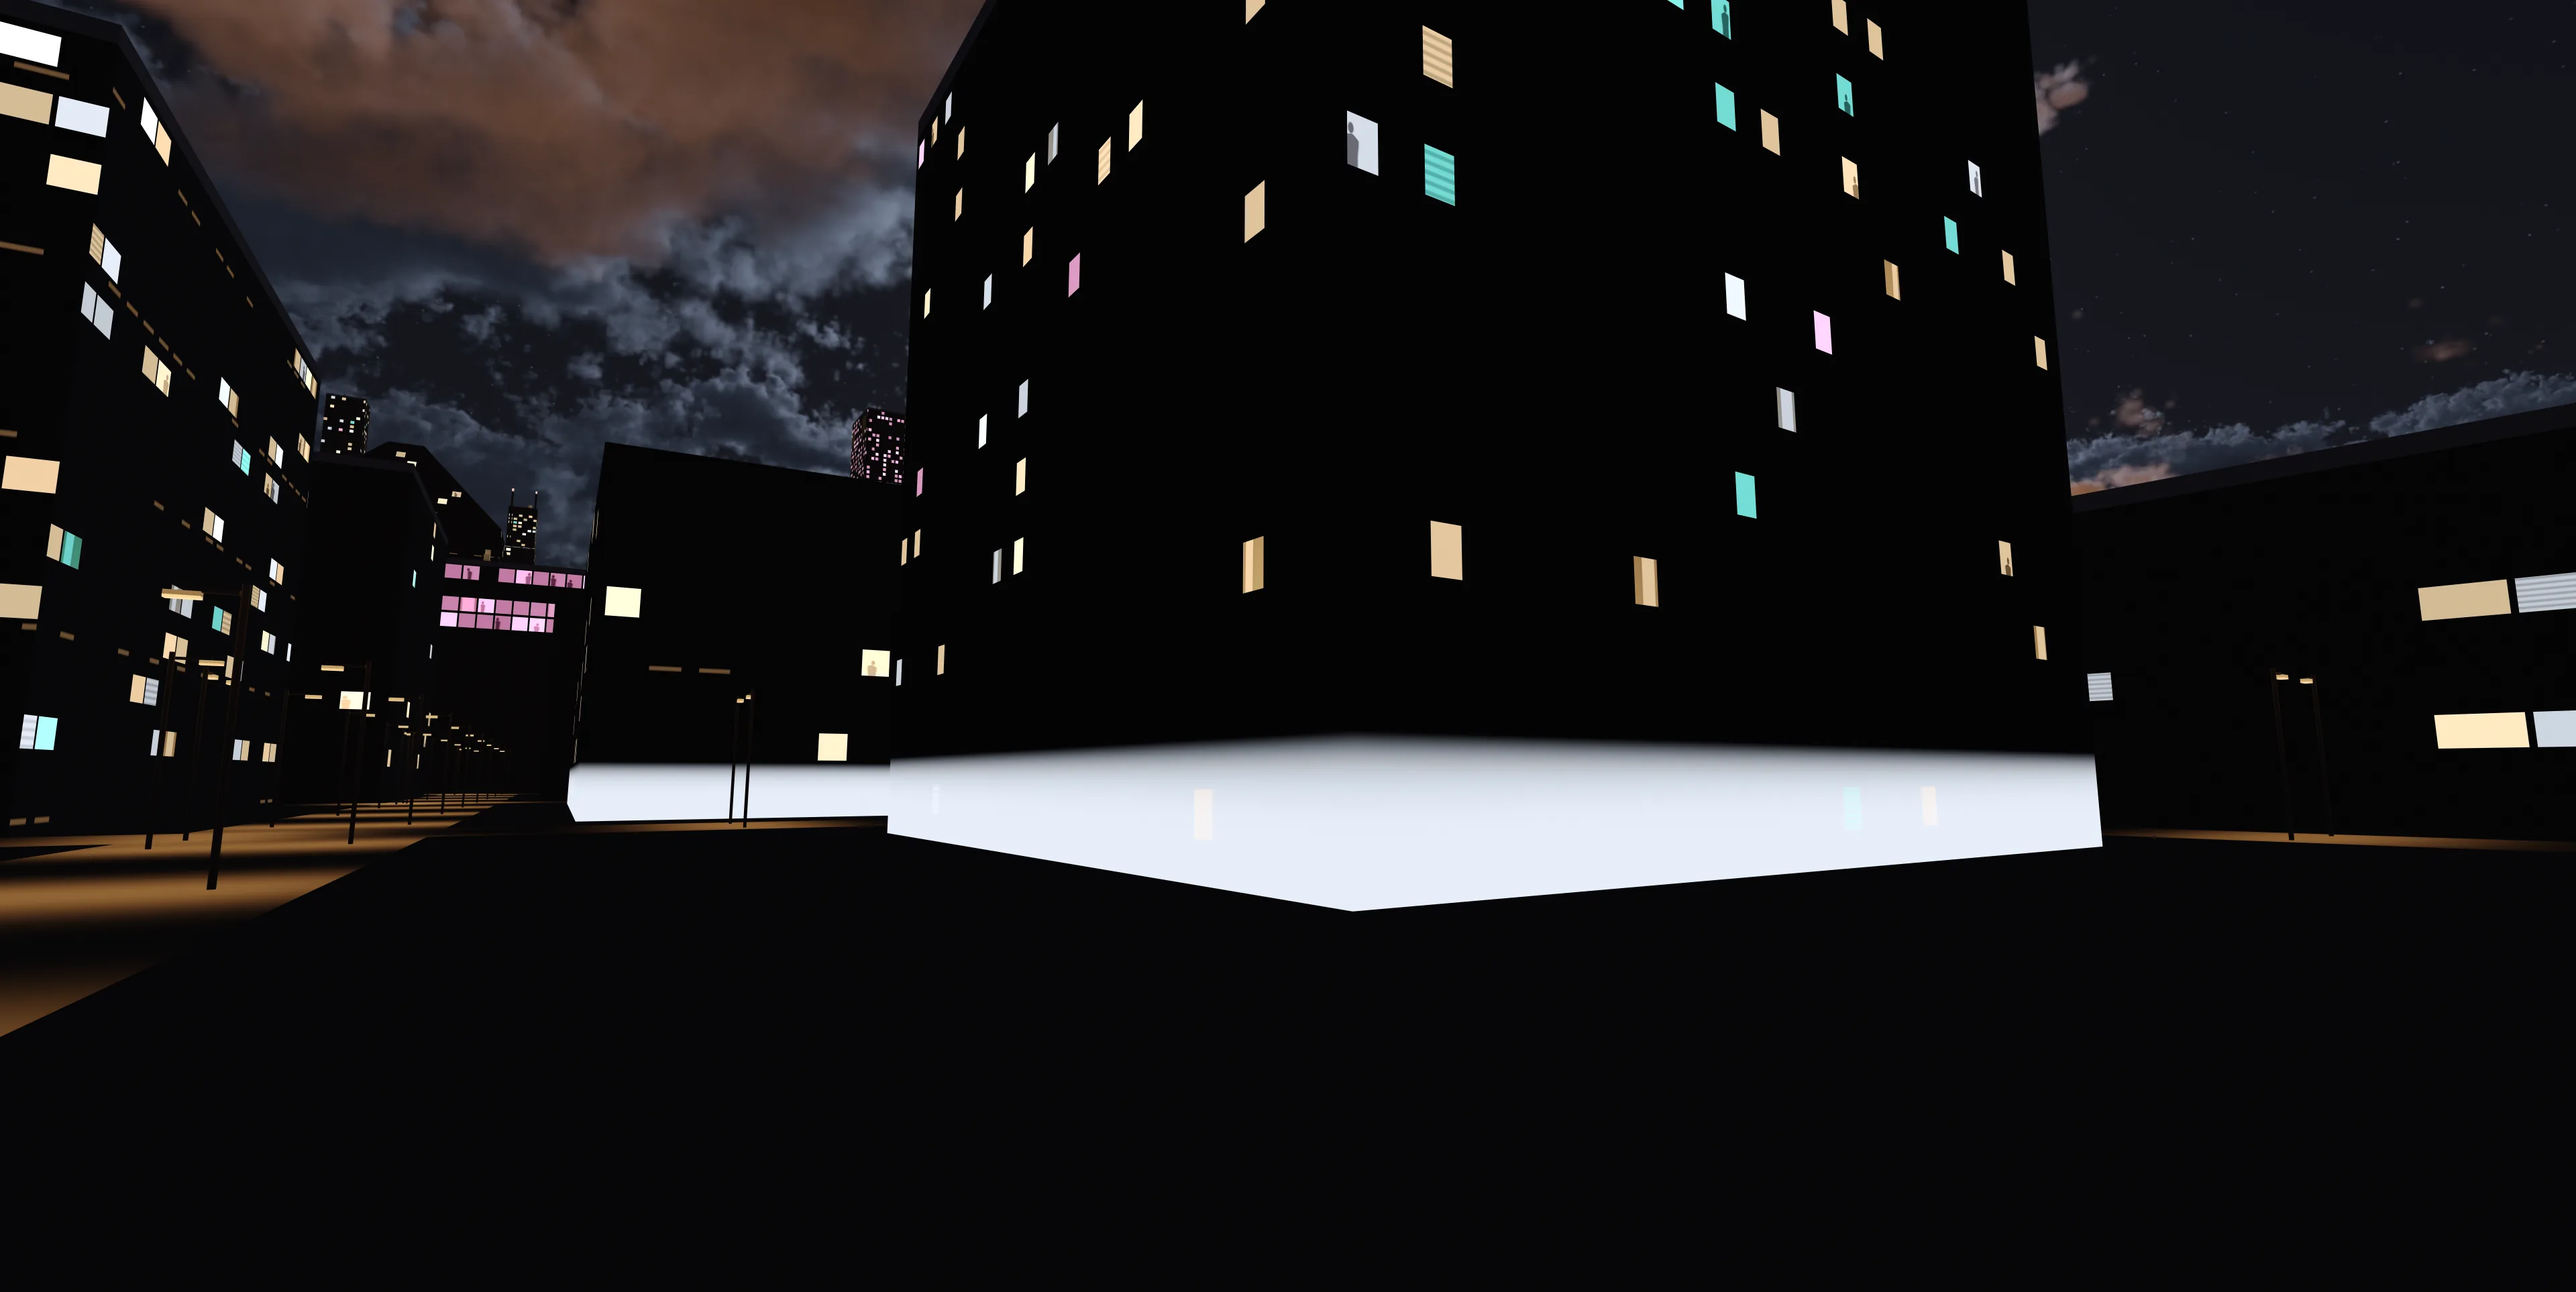
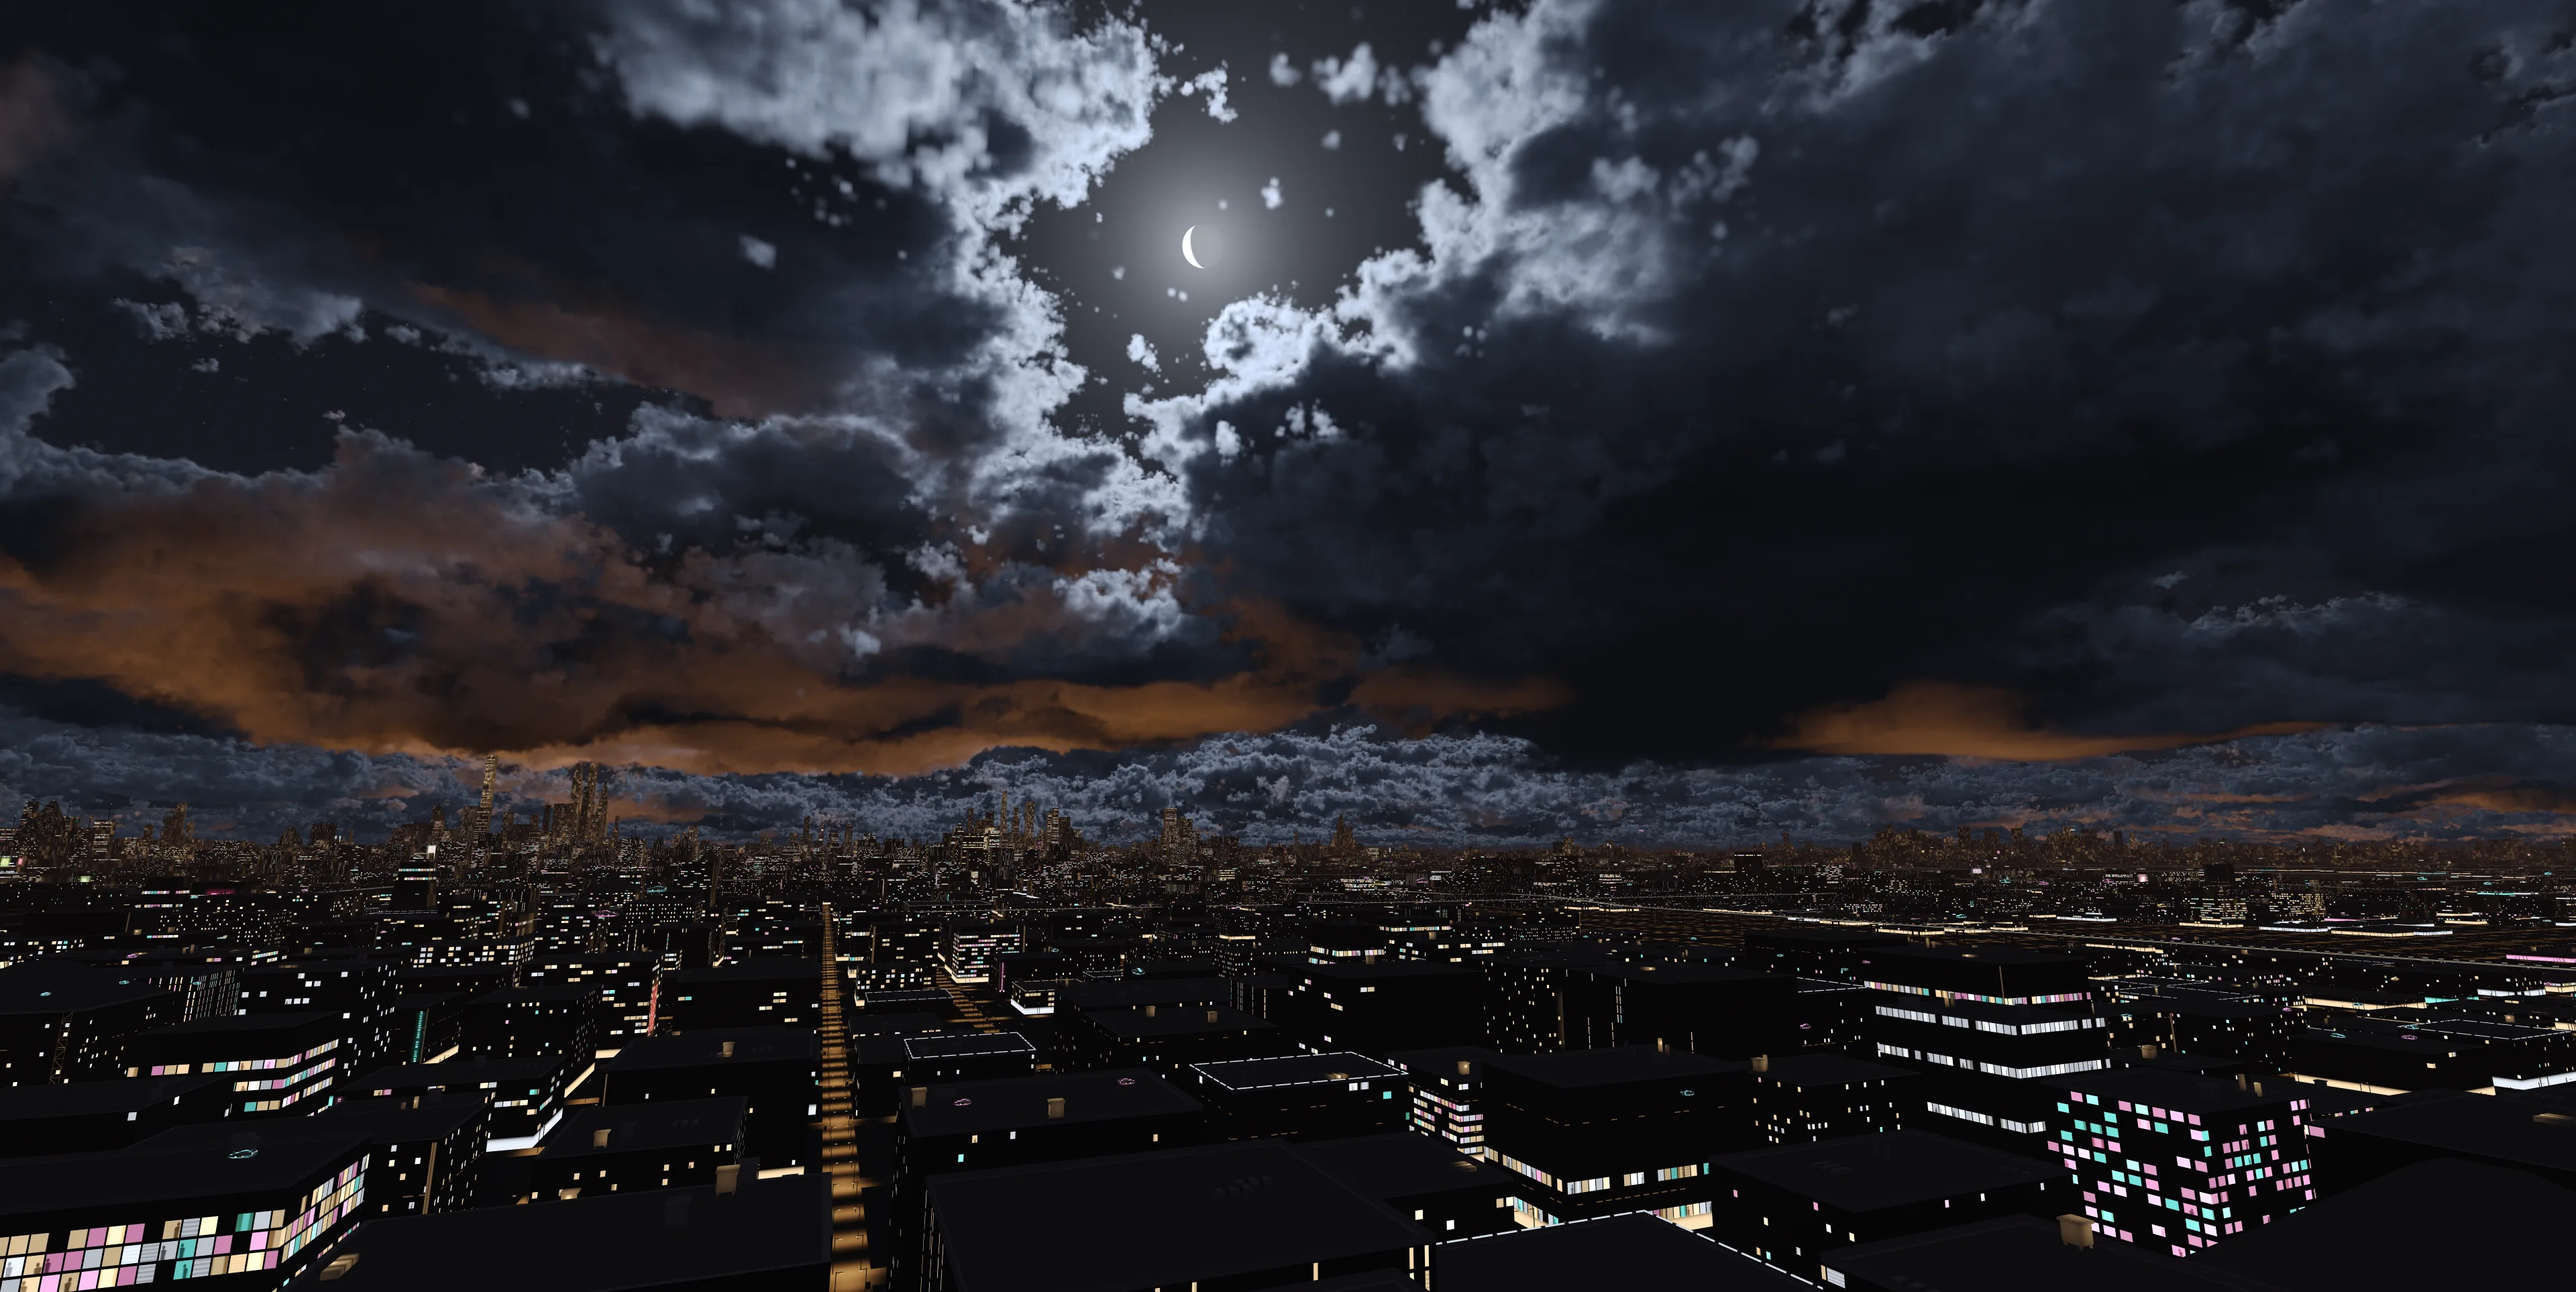
soar: cyberpunk opens on the rooftops, and the high-res pair resolves
The default and backdrop view move to the 2026-08-22 11:52 capture — a
rooftop panorama at 110 m, azimuth 203 — and the moon moves with it to
198/31: the light the view was composed under is part of the view. The
harness gains --moon so offline renders can follow the app instead of a
constant of their own. Backdrop re-rendered at max over the C1=0.07 tile.

The "more detailed" button stopped failing in cyberpunk: the fine marine
case ships under the id "congestus", and the pair table now asks for the
id that exists rather than the name it deserves.

diff --git a/web/soar/ingest/strings.js b/web/soar/ingest/strings.js
@@ -1,0 +1,105 @@
+// Every string the file-loading path puts on screen.
+//
+// One table, so the wording is edited here rather than hunted through
+// netcdf.js, worker.js, index.js, ui.js and viewer.js. Functions where a
+// value is interpolated, plain strings otherwise.
+//
+// DRAFTS — Thomas to rewrite. The structure (which strings exist, and what
+// each one is handed) is the part that is load-bearing; the words are not.
+
+"use strict";
+
+export const T = {
+
+  // --- failure screen -------------------------------------------------------
+  // Shown as the body under "Could not open this field."
+
+  /** The file is netCDF-3 classic. Sniffed from the magic before h5wasm. */
+  notNetcdf4: (filename) => `${filename} is netCDF-3 (classic format).`,
+  notNetcdf4Advice:
+    "Soar only reads netCDF-4/HDF5.",
+
+  /** Nothing in the file has three spatial dimensions. */
+  noVariables: (filename) => `${filename} has no 3D variables.`,
+
+  /** Every group had a 3D variable, but none could be described. */
+  noGroupReadable: (filename) => `Nothing in ${filename} could be read.`,
+
+  // --- which group ----------------------------------------------------------
+
+  groupsTitle: "Which group?",
+  /** Shown above the pair rows when two levels nest. */
+  groupsNestable: "Nested subdomains:",
+  groupsNestRow: (outer, inner) => `${outer} + ${inner}`,
+  groupsNestNote: "both, nested",
+  groupsOrOne: "Just one",
+  groupsRootLabel: "(root)",
+
+  // --- which variable -------------------------------------------------------
+  // The panel header is the question; the body is the status line, composed
+  // from whichever of the three below apply.
+
+  askLiquid: "Which variable is liquid condensate?",
+  askIce: "Which variable is ice?",
+
+  inferredLiquid: (name) => `Inferred liquid condensate as ${name}.`,
+  inferredIce: (name) => `Inferred ice condensate as ${name}.`,
+  noLiquid: "Could not infer liquid condensate variable.",
+  noIce: "Could not infer ice condensate variable.",
+  /** Neither role inferred — replaces the two lines above. */
+  noneInferred: "Could not infer variables.",
+
+  /** Sub-label under each variable row: shape, units, long_name. */
+  variableNote: ({ shape, units, longName }) => [
+    `[${shape.join(" x ")}]`,
+    units ? `units ${units}` : null,
+    longName || null,
+  ].filter(Boolean).join(" · "),
+
+  /** Ice question only. */
+  iceNoneOption: "No ice",
+  iceNoneNote: "load the field without ice",
+
+  // --- which timestep -------------------------------------------------------
+
+  askTimestep: "Which timestep?",
+  timestepCount: (n) => `This file has ${n} timesteps.`,
+  /** Row label. `value` is the time coordinate, null when there isn't one. */
+  timestepRow: (index, value) =>
+    value === null ? `${index}` : `${index} — ${value}`,
+
+  // --- which units ----------------------------------------------------------
+
+  askUnits: "Which units?",
+  unitsMissing: (variables) => `No units on ${variables.join(", ")}.`,
+  unitsGkg: "g/kg",
+  unitsKgkg: "kg/kg",
+
+  // --- which dimension is which --------------------------------------------
+
+  askAxes: "Which dimension is which?",
+  askAxis: (axis) => `Which dimension is ${axis}?`,
+  axisAssigned: (axis, name, size) => `${axis} = ${name} (${size})`,
+  axisRow: (name, size, storageAxis) =>
+    `${size} points, storage axis ${storageAxis}`,
+  axesConfirm: "Load with these axes",
+  axesRestart: "Start over",
+
+  // --- ice in another file --------------------------------------------------
+
+  askIceFile: "Is there ice in another file?",
+  iceFileWhy: (liquidVar) =>
+    `${liquidVar} is the only condensate here. A separate ice file on the ` +
+    "same grid can be read alongside.",
+  iceFileSkip: "Continue without ice",
+  iceFileChoose: "Choose an ice file…",
+  iceFileChooseNote: "",
+
+  // --- shared ---------------------------------------------------------------
+
+  kicker: "open file",
+  back: "Back",
+  backNote: "choose a different file",
+  /** Second line of every load panel: which file, and which group. */
+  source: (filename, group) => group ? `${filename} — group ${group}` : filename,
+};

diff --git a/web/soar/constants.js b/web/soar/constants.js
@@ -128,16 +128,16 @@ export const NIGHT_MOON_DISC = [4.0, 4.2, 4.6];
 // the field the harness flies. Whole blocks (90 m), so the street grid meets
 // the domain edge where a street would be anyway.
 export const CITY_TILE_OFFSET_M = [8100.0, -44190.0];
-// Low and behind: a moon on the horizon rims the cloud tops and leaves the
-// streets to their own light, which is the picture the city was tuned for
-// (the night-city harness flew this pair).
-export const CITY_MOON = { azimuth: 310.0, elevation: 22.0 };
+// From the 2026-08-22 11:52 capture, the same still the start camera and the
+// landing backdrop come from: the moon the view was composed under is part
+// of the view.
+export const CITY_MOON = { azimuth: 198.0, elevation: 31.0 };
 
 // Where a cyberpunk flight opens, in the app's relative coordinates: x and y
 // across the domain box, z from the ground to the box top. Down in the
 // streets, looking north-west along a canyon with the moon off the right
 // shoulder — Thomas flew to it and took a still there (the capture of
-// 2026-08-22 10:33, whose metadata these six numbers are), and the landing
+// 2026-08-22 11:52, whose metadata these six numbers are), and the landing
 // page's cyberpunk backdrop is the same view rendered offline.
 //
 // The mode's, not the demo's: a borrowed demo carries the camera ITS landing
@@ -146,9 +146,9 @@ export const CITY_MOON = { azimuth: 310.0, elevation: 22.0 };
 // metres so the same six numbers open either case of the pair, whose domains
 // are different sizes.
 export const CITY_START_CAMERA = {
-  position: [0.2565505140281652, -0.005218180210715628, -0.998326359832636],
-  azimuth: 303.96,
-  elevation: 6.92,
+  position: [0.03018284974334895, 0.008322118576506998, -0.9430401704863525],
+  azimuth: 202.92,
+  elevation: 10.80,
   fov: 100.0,
 };
 

diff --git a/web/soar/main.js b/web/soar/main.js
@@ -743,7 +743,7 @@ setTimeout(() => document.body.classList.remove("intro"), 2700);
 const FLY_PAIRS = {
   research: { less: "desert-coarse", more: "desert" },
   basic: { less: "desert-coarse", more: "desert" },
-  cyberpunk: { less: "marine-congestus-coarse", more: "marine-congestus" },
+  cyberpunk: { less: "marine-congestus-coarse", more: "congestus" },
 };
 
 /** The two ids this mode's buttons load. */

diff --git a/tools/night_city_harness.py b/tools/night_city_harness.py
@@ -156,6 +156,11 @@ def main(argv=None) -> int:
                         help="tone-map white point (default: the app's)")
     parser.add_argument("--contrast", type=float, default=None,
                         help="contrast (default: the app's)")
+    parser.add_argument("--moon", nargs=2, type=float, metavar=("AZ", "EL"),
+                        default=[MOON_AZIMUTH, MOON_ELEVATION],
+                        help="moon azimuth/elevation in city mode "
+                             "(default: %(default)s; constants.js CITY_MOON "
+                             "is the app's)")
     parser.add_argument("--haze", type=float, default=None,
                         help="aerosol, the app's one haze number "
                              "(default: the app's)")
@@ -243,8 +248,8 @@ def main(argv=None) -> int:
            if args.city_offset is not None else {}),
     )
 
-    light_az = MOON_AZIMUTH if args.city else DAY_AZIMUTH
-    light_el = MOON_ELEVATION if args.city else DAY_ELEVATION
+    light_az = args.moon[0] if args.city else DAY_AZIMUTH
+    light_el = args.moon[1] if args.city else DAY_ELEVATION
     exposure = args.exposure
     if exposure is None:
         exposure = NIGHT_EXPOSURE if args.city else DAY_EXPOSURE
